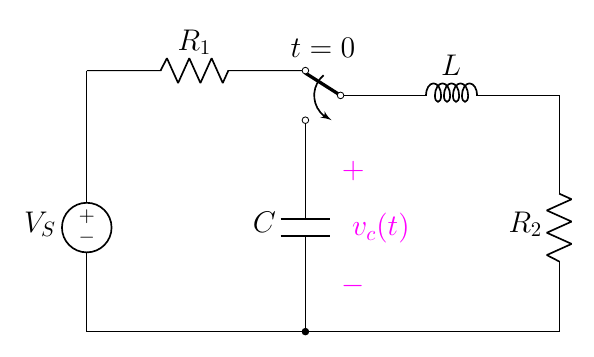
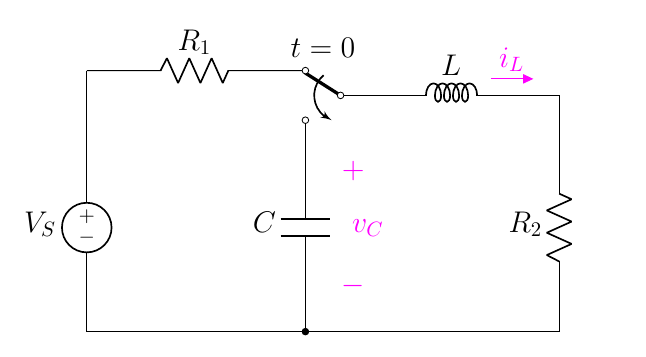
8.14

diff --git a/2.8 Underdamped/8.3.2 The Underdamp RLC Circuit/8.14(new).tex b/2.8 Underdamped/8.3.2 The Underdamp RLC Circuit/8.14(new).tex
@@ -31,7 +31,9 @@
     %%% find %%%
     \node at (4,4.8)[]{$t=0$};
     \draw[magenta](4.2,0.5)
-        to[open, v>=$v_c(t)$] ++(0,2.5);
+        to[open, v>=$v_C$] ++(0,2.5);
 
+    \draw[circuitikz/current arrow color=magenta](6.7,4)
+        to[open,f>^=$\color{magenta}{i_L}$] ++(2.4,0);
 \end{circuitikz}
 \end{document}
